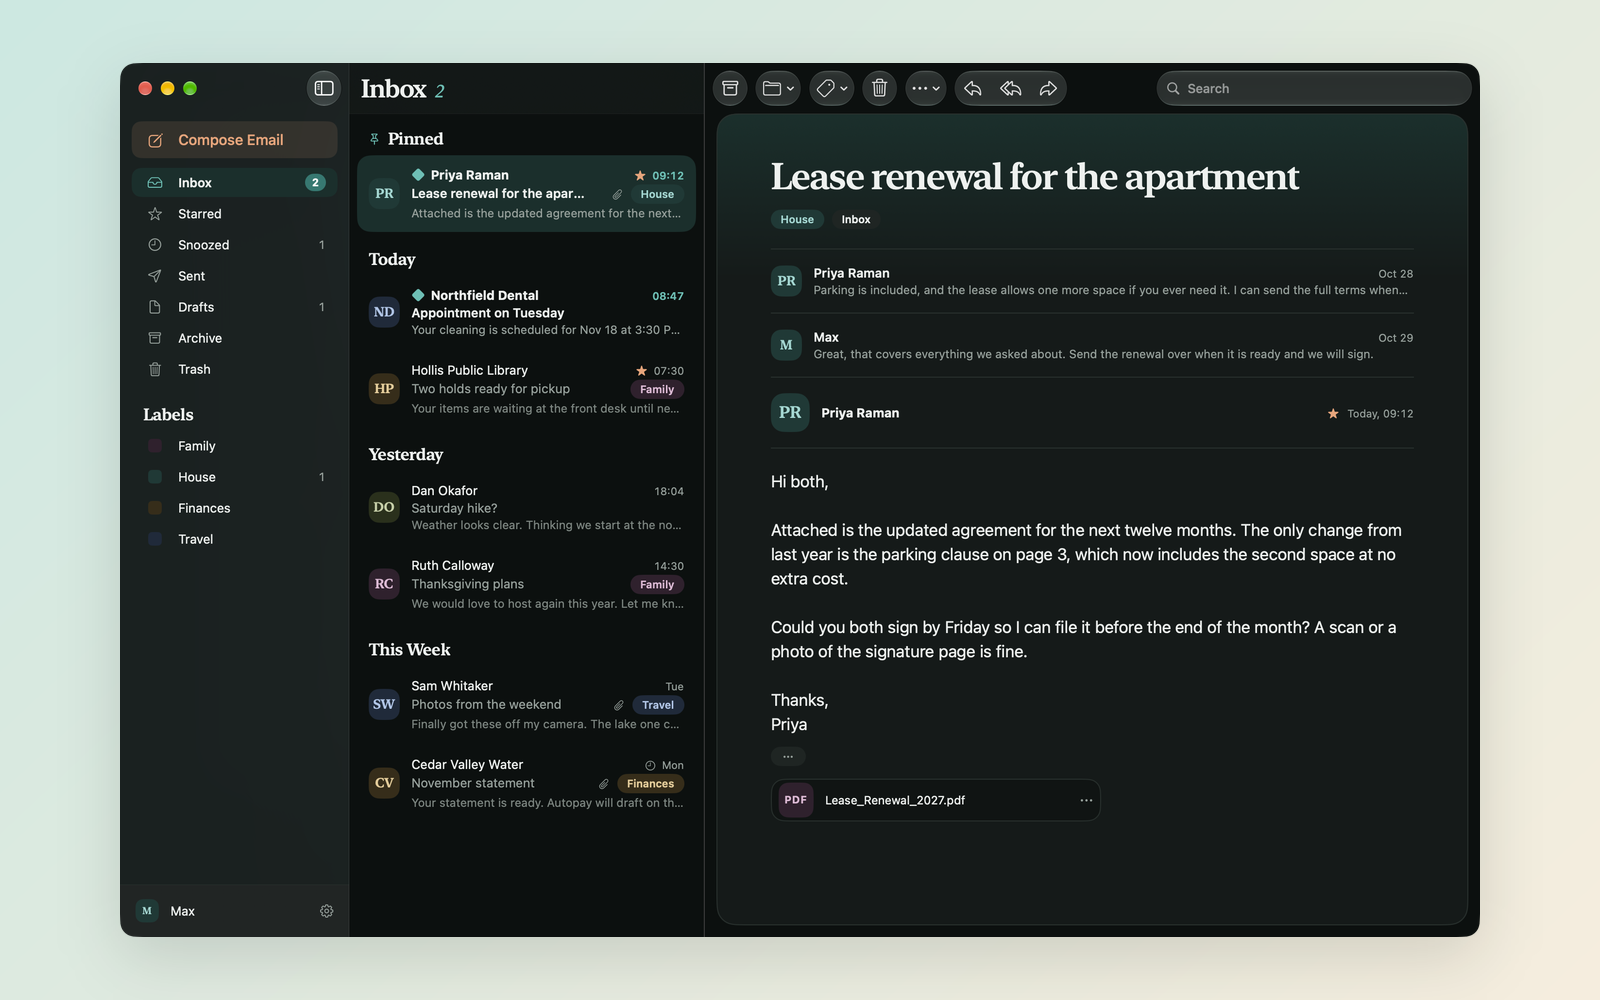
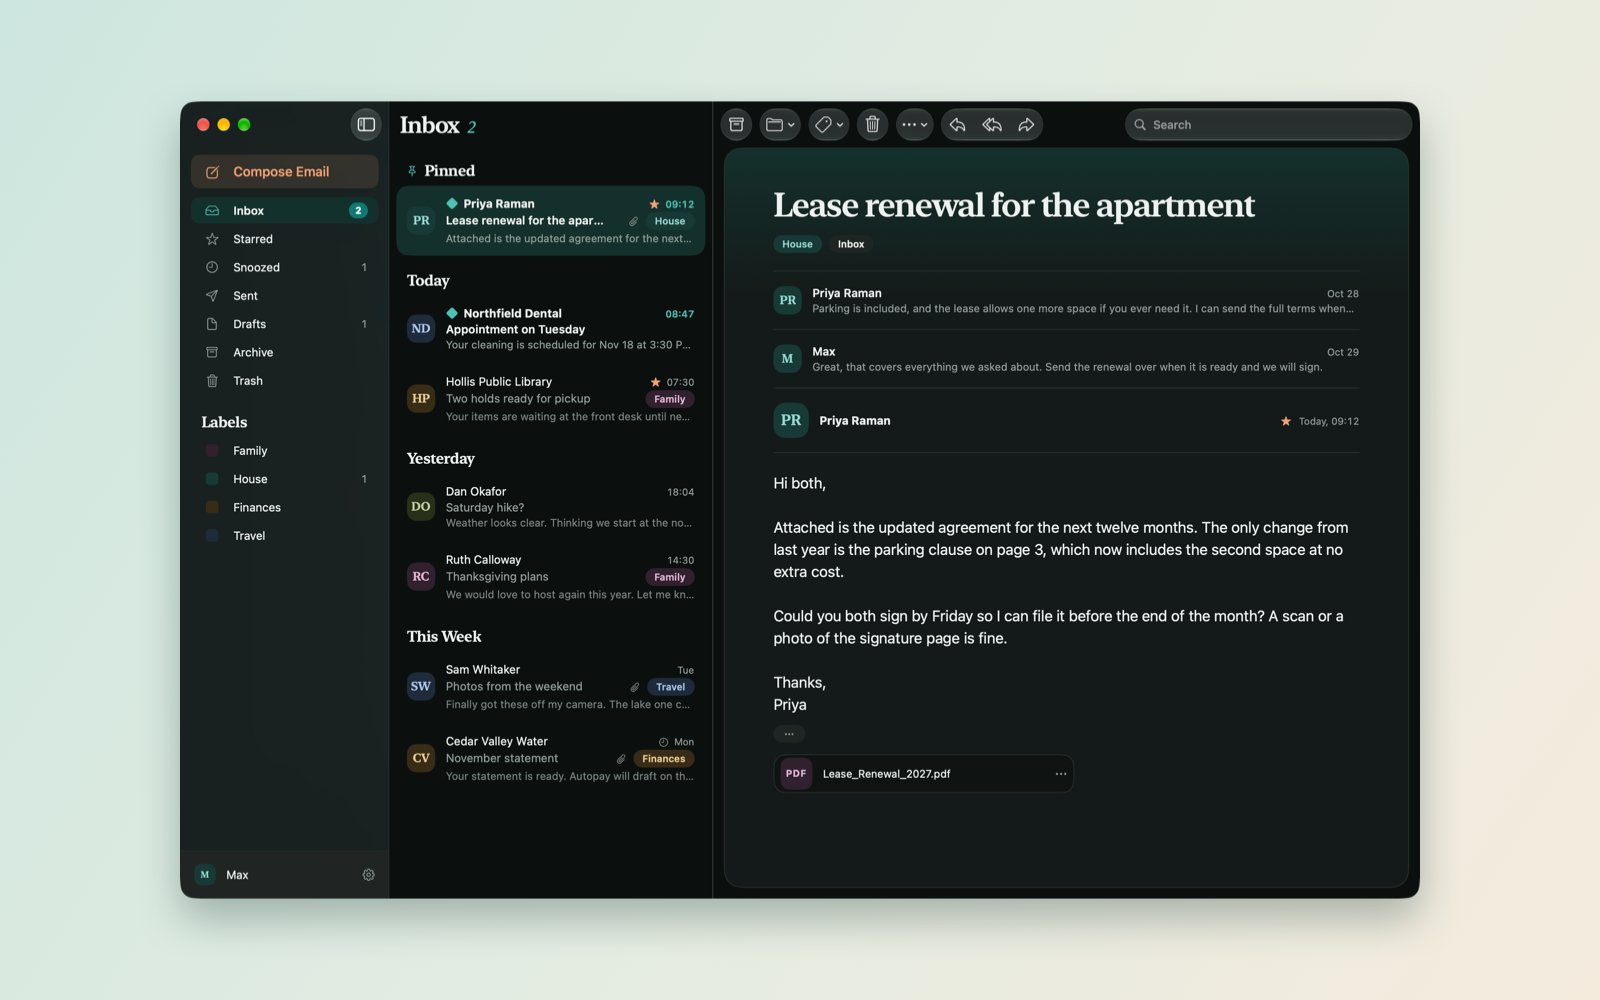
Screenshots script also retakes the dark Mac image

diff --git a/Scripts/frame.swift b/Scripts/frame.swift
@@ -1,7 +1,7 @@
 // Frames raw screenshots for the README and the social preview. No dependencies beyond
 // the system frameworks. Built and run by Scripts/screenshots.sh:
 //
-//   frame hero    <mac.png> <out.png>
+//   frame hero    <mac.png> <out.png> [height]
 //   frame iphone  <out.png> <phone1.png> <phone2.png> <phone3.png>
 //   frame social  <mac.png> <icon.png> <out.png>
 import AppKit
@@ -75,7 +75,7 @@ switch args.dropFirst().first {
 case "hero":
     // The Mac window's own corners are transparent already, so it is not clipped again.
     let mac = load(args[2])
-    let width = 1600, height = 915
+    let width = 1600, height = args.count > 4 ? Int(args[4])! : 915
     let w: CGFloat = 1240
     let h = w * CGFloat(mac.height) / CGFloat(mac.width)
     let out = canvas(width, height) { c in

diff --git a/README.md b/README.md
@@ -146,7 +146,7 @@ and lives in `Design/`. Views use `Palette`, `Spacing`, `Radius`, `Motion` and
 
 ## Screenshots
 
-`Scripts/screenshots.sh` retakes `docs/screenshots/` and `docs/social-preview.png` from the sample mailbox (`mac`, `iphone` or `social` for just one). It runs the app in the existing Harmony iPhone simulator and captures the Mac window with `screencapture`, which needs Screen Recording allowed for your terminal.
+`Scripts/screenshots.sh` retakes `docs/screenshots/` (hero, dark Mac, iPhone row) and `docs/social-preview.png` from the sample mailbox (`mac`, `iphone` or `social` for just one). It runs the app in the existing Harmony iPhone simulator and captures the Mac window with `screencapture`, which needs Screen Recording allowed for your terminal.
 
 ## Testing
 
